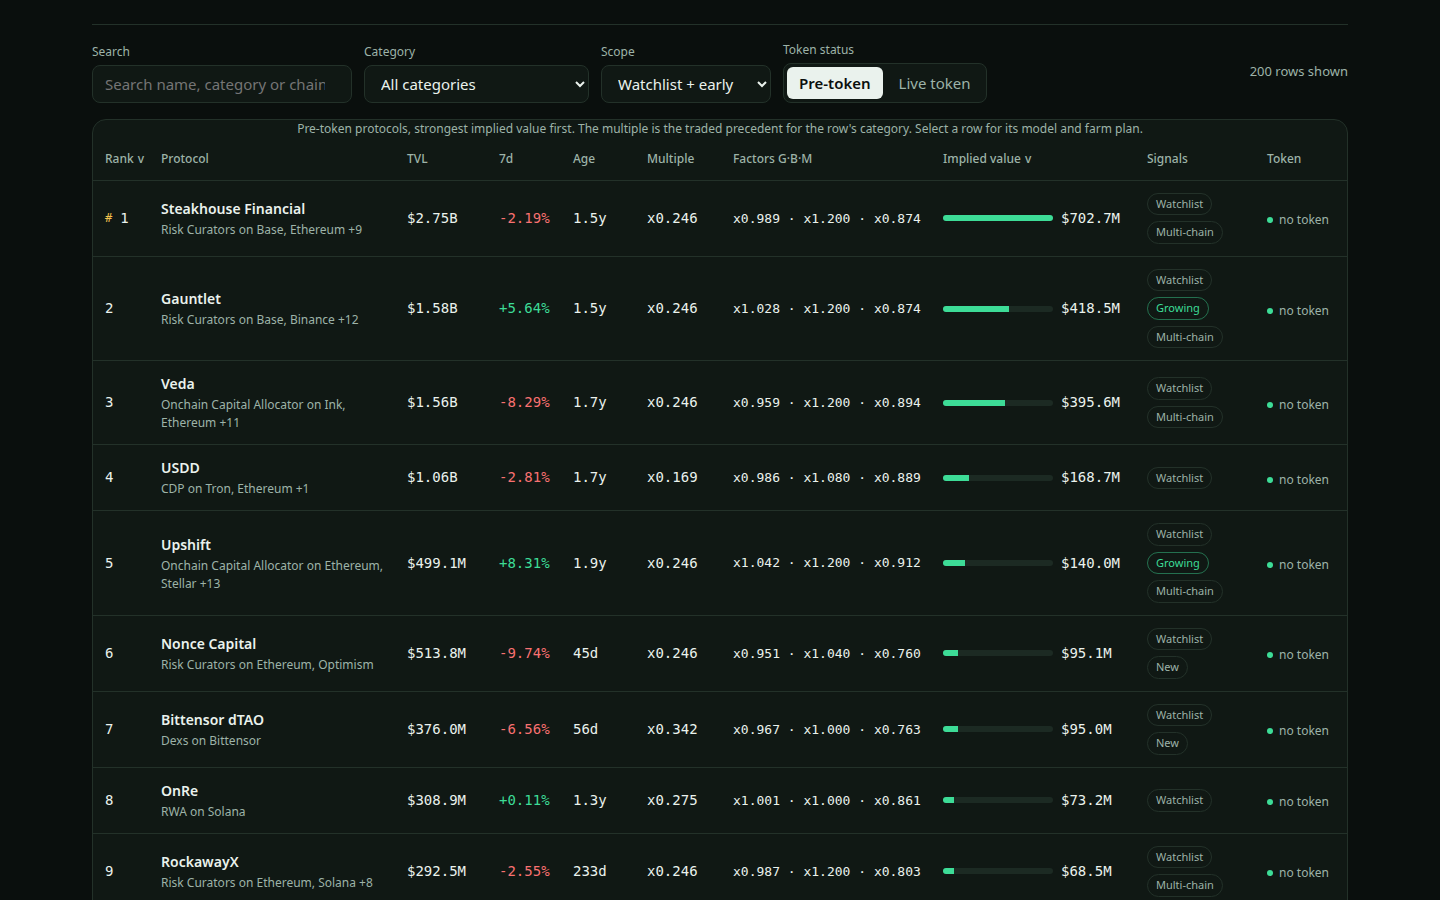
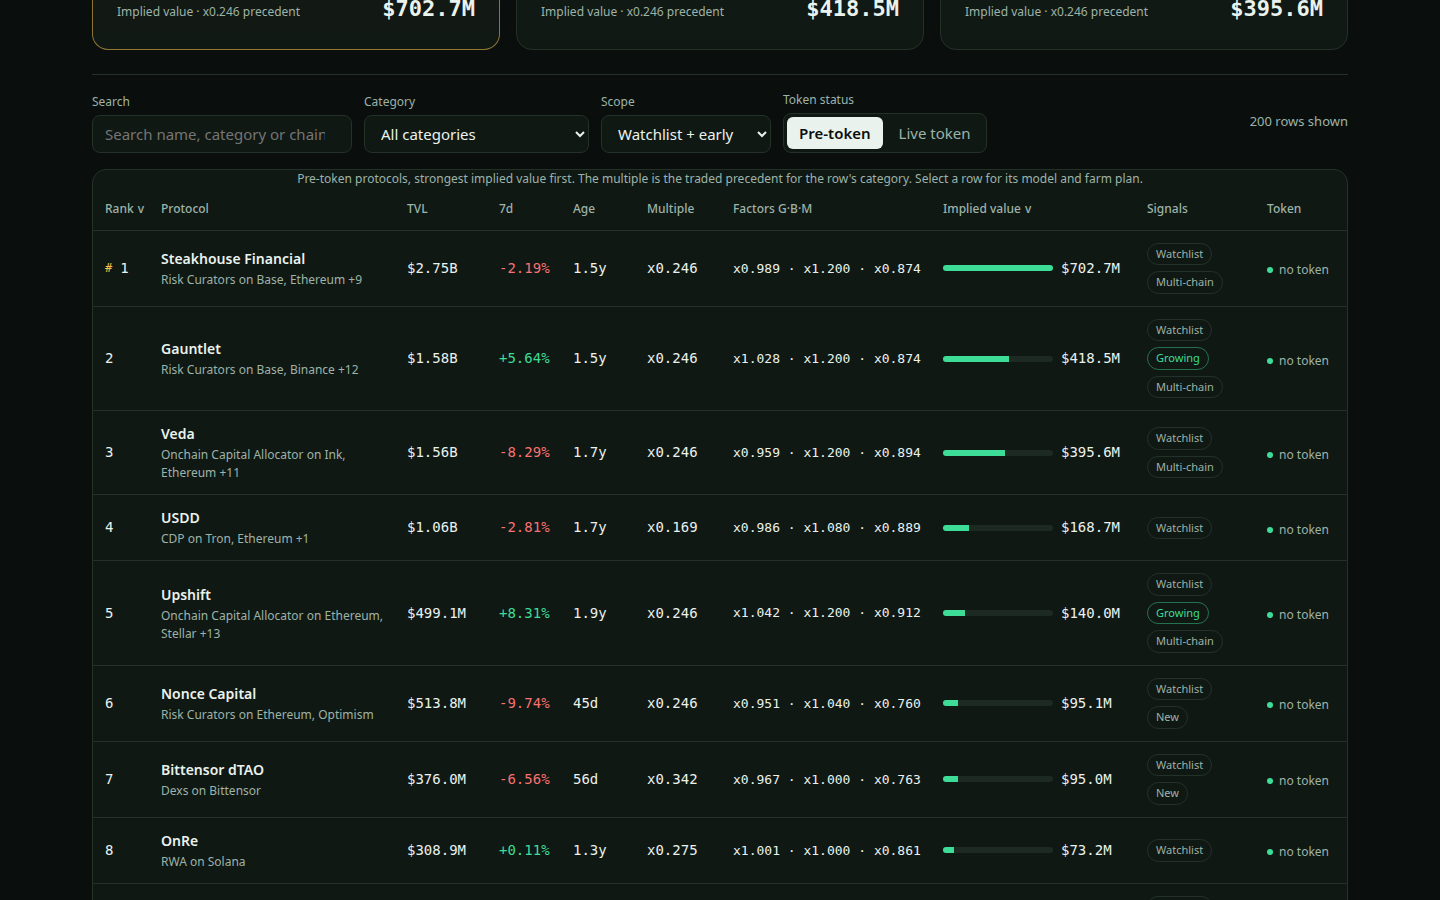
Polish 3 (final): search focus, chain grammar, maturity copy, re-staged screenshots

diff --git a/dashboard/app.js b/dashboard/app.js
@@ -260,7 +260,13 @@
   function controls() {
     var categories = Array.from(new Set(DATA.rows.map(function (r) { return r.category || 'Other'; }))).sort();
     var search = el('input', { type: 'search', id: 'q', placeholder: 'Search name, category or chain', value: state.q, 'aria-label': 'Search the board' });
-    search.addEventListener('input', function () { state.q = search.value; writeHash(); render(); });
+    search.addEventListener('input', function () {
+      var pos = 0;
+      try { pos = search.selectionStart || 0; } catch (e) { pos = 0; }
+      state.q = search.value; writeHash(); render();
+      var next = document.getElementById('q');
+      if (next) { next.focus(); try { next.setSelectionRange(pos, pos); } catch (e2) {} }
+    });
     var select = el('select', { id: 'category', 'aria-label': 'Filter by category' },
       el('option', { value: 'all', text: 'All categories' }),
       categories.map(function (c) { return el('option', { value: c, text: c, selected: c === state.category ? 'selected' : null }); })
@@ -361,7 +367,7 @@
         el('td', { class: 'num', text: 'live' }),
         el('td', null, el('div', { class: 'name' }, el('b', { text: r.name }), el('span', { class: 'sub', text: (r.category || 'Other') + ' on ' + (r.chains && r.chains.length ? r.chains.slice(0, 2).join(', ') : 'an unnamed chain') }))),
         el('td', { class: 'num', text: fmtUsd(r.tvl_usd) }),
-        el('td', { class: 'num ' + (r.change_7d !== null && r.change_7d >= 0 ? 'pos' : 'neg'), text: fmtPct(r.change_7d) }),
+        el('td', { class: 'num ' + (r.change_7d === null ? '' : r.change_7d >= 0 ? 'pos' : 'neg'), text: fmtPct(r.change_7d) }),
         el('td', { class: 'num', text: fmtUsd(r.mcap_usd) }),
         el('td', { class: 'num', text: r.multiple === null ? 'n/a' : fmtMult(r.multiple) }),
         el('td', null, el('span', { class: 'status', text: 'already trades' }))
@@ -401,7 +407,7 @@
         el('div', { class: 'factor' }, el('b', { text: 'Precedent multiple' }), el('span', { class: 'num', text: 'median mcap / TVL, per category' }), el('span', { text: 'What traded tokens in the same category are worth against their TVL. At least 3 traded protocols, else the global median. Clamped 0.08–0.80.' })),
         el('div', { class: 'factor' }, el('b', { text: 'Growth' }), el('span', { class: 'num', text: '1 + clamp(7d, -40, 60) / 100 x ' + m.growth_weight }), el('span', { text: 'Momentum into the launch window. Missing growth reads as zero: neutral, never a penalty.' })),
         el('div', { class: 'factor' }, el('b', { text: 'Breadth' }), el('span', { class: 'num', text: '1 + 0.04 x min(chains - 1, 5)' }), el('span', { text: 'Reach. Each extra chain is more users, more venues, more reasons a launch lands.' })),
-        el('div', { class: 'factor' }, el('b', { text: 'Maturity' }), el('span', { class: 'num', text: '0.75 + 0.25 x min(age, 1095) / 1095' }), el('span', { text: 'Proof of running. Age is time since first listing; unknown age uses ' + m.unknown_age_days + ' days. The smallest factor: older never means likelier to launch.' }))
+        el('div', { class: 'factor' }, el('b', { text: 'Maturity' }), el('span', { class: 'num', text: '0.75 + 0.25 x min(age, 1095) / 1095' }), el('span', { text: 'Proof of running. Age is the time since DefiLlama began tracking the protocol; unknown age uses ' + m.unknown_age_days + ' days. The smallest factor: older never means likelier to launch.' }))
       ),
       el('div', null,
         el('h3', { text: 'Traded precedents, from this snapshot alone' }),
@@ -458,6 +464,7 @@
     lifts.forEach(function (f) { if (f.mult > strongest.mult) strongest = f; if (f.mult < weakest.mult) weakest = f; });
     function signedLift(mult) { var p = (mult - 1) * 100; return (p >= 0 ? '+' : '') + p.toFixed(1) + '%'; }
     var dragText = 'Strongest lift: ' + strongest.name + ' ' + fmtMult(strongest.mult) + ' (' + signedLift(strongest.mult) + '). Biggest drag: ' + weakest.name + ' ' + fmtMult(weakest.mult) + ' (' + signedLift(weakest.mult) + ' against a neutral 1.000).';
+    var chainCount = (row.chains || []).length;
     dialog.appendChild(el('div', { class: 'detail-head' },
       el('div', null,
         el('span', { class: 'brand-name', text: 'Rank ' + row.rank + ' of ' + DATA.board_size + (row.on_watchlist ? ' · Watchlist' : ' · Early radar') }),
@@ -477,7 +484,7 @@
         factorRow('TVL', fmtUsd(row.tvl_usd), 'base', 100),
         factorRow('Precedent multiple', row.precedent_n > 0 ? row.precedent_n + ' traded protocols' : 'global median', 'x' + row.category_multiple.toFixed(3), (row.category_multiple / 0.8) * 100),
         factorRow('Seven-day growth', fmtPct(row.change_7d), 'x' + growthMultOf(row, DATA.model).toFixed(3), (growthMultOf(row, DATA.model) / 1.3) * 100),
-        factorRow('Chain breadth', (row.chains || []).length + ' chains', 'x' + breadthMultOf(row, DATA.model).toFixed(3), (breadthMultOf(row, DATA.model) / 1.2) * 100),
+        factorRow('Chain breadth', chainCount + (chainCount === 1 ? ' chain' : ' chains'), 'x' + breadthMultOf(row, DATA.model).toFixed(3), (breadthMultOf(row, DATA.model) / 1.2) * 100),
         factorRow('Maturity', fmtAge(row.age_days), 'x' + maturityMultOf(row, DATA.model).toFixed(3), maturityMultOf(row, DATA.model) * 100)
       ),
       el('p', { class: 'sub', text: dragText }),
